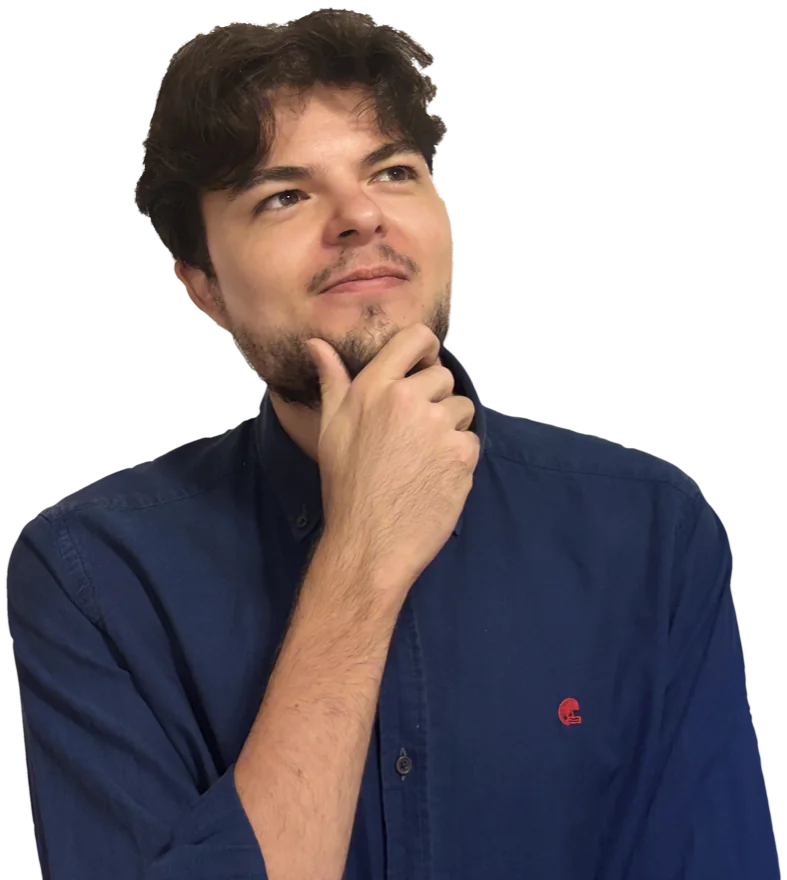
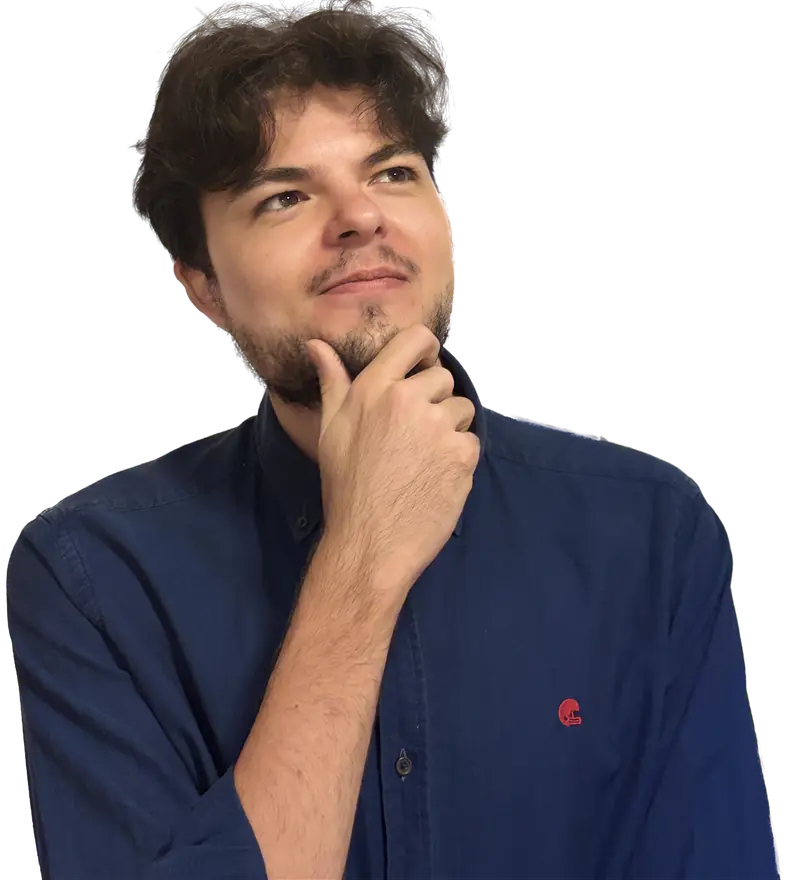
Renueva las fotos de Roque con un recorte de más calidad
Mismo encuadre que las anteriores, en WebP optimizado. La foto de la
portada se carga con prioridad alta.

diff --git a/index.html b/index.html
@@ -74,7 +74,7 @@
           </div>
         </div>
         <div class="portada-foto">
-          <img src="img/roque-brazos-cruzados.webp" width="566" height="880" alt="Roque Pérez Calvo sonriendo con los brazos cruzados">
+          <img src="img/roque-brazos-cruzados.webp" width="566" height="880" fetchpriority="high" alt="Roque Pérez Calvo sonriendo con los brazos cruzados">
           <div class="nota nota-1" data-texto="portada.nota-anos"><strong>+7 años</strong> a pie de planta</div>
           <div class="nota nota-2" data-texto="portada.nota-ediciones"><strong>21 ediciones</strong> de Ingenio Lean</div>
           <div class="nota nota-3" data-texto="portada.nota-amarilla">mejora continua · mentalidad · industria</div>
